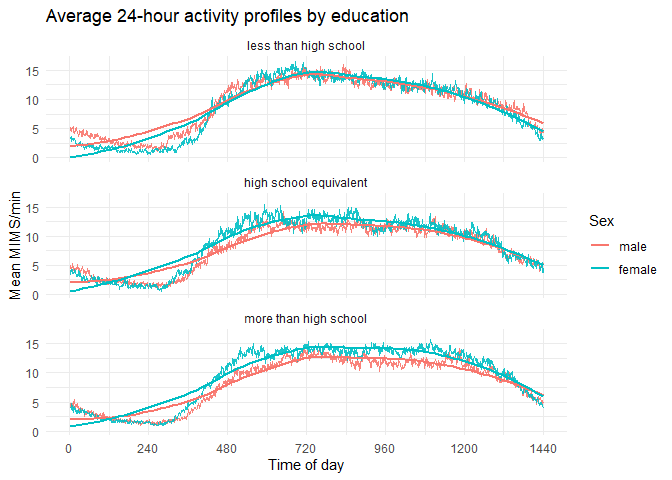
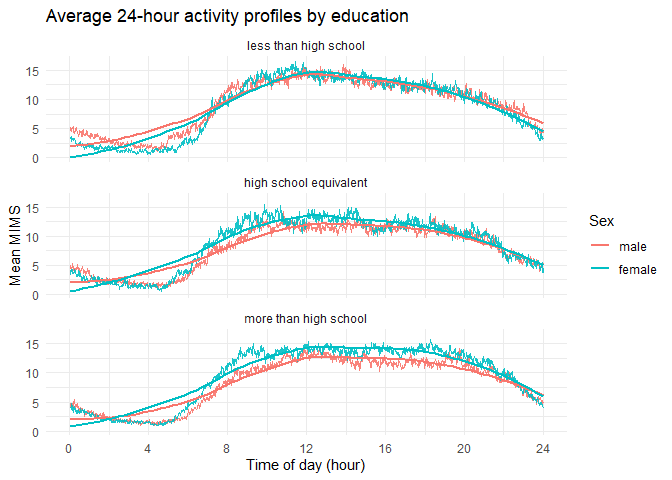
update Q4 in problem 3, change x into hour

diff --git a/p8105_hw3_cd3591.md b/p8105_hw3_cd3591.md
@@ -525,13 +525,13 @@ prof = mims_long %>%
   summarise(mims_mean = mean(mims, na.rm = TRUE), .groups = "drop")
 
 # three-panel plot that shows the 24-hour activity time courses
-ggplot(prof, aes(x = minute_num, y = mims_mean, color = sex)) +  # use color to indicate sex
+ggplot(prof, aes(x = minute_num/60, y = mims_mean, color = sex)) +  # use color to indicate sex & change x into hours
   geom_line(alpha = 0.9) +
   geom_smooth(se = FALSE, method = "loess") +
   facet_wrap(~ education, ncol = 1) +  # for each education level
-  scale_x_continuous(breaks = seq(0, 1440, 240)) +
+  scale_x_continuous(breaks = seq(0, 24, 4)) +
   labs(title = "Average 24-hour activity profiles by education",
-       x = "Time of day", y = "Mean MIMS/min", color = "Sex") +
+       x = "Time of day (hour)", y = "Mean MIMS", color = "Sex") +
   theme_minimal()
 ```
 
